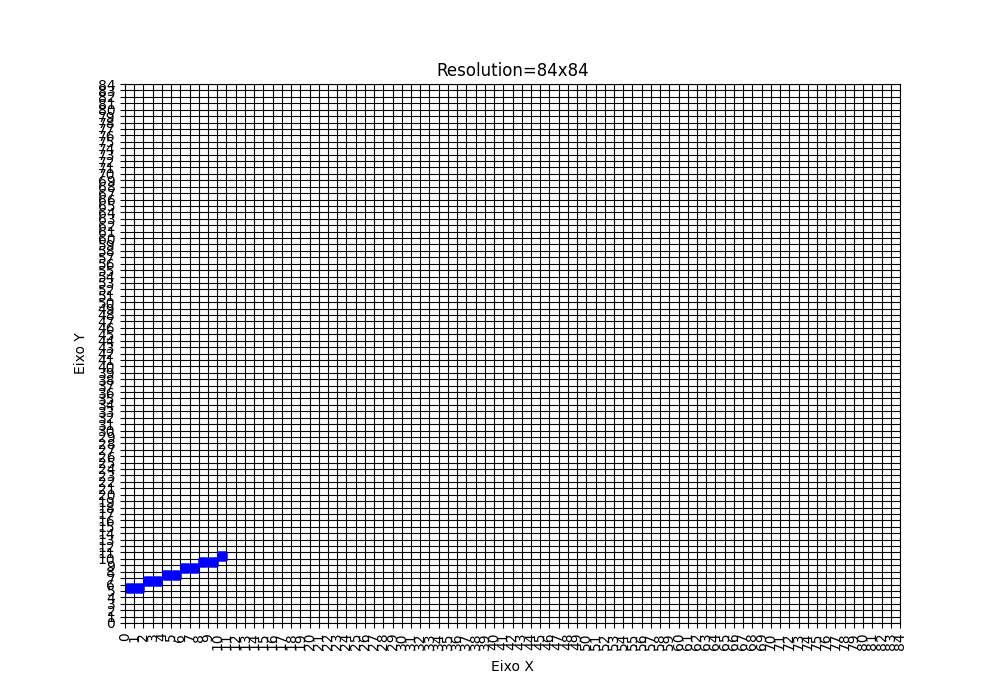
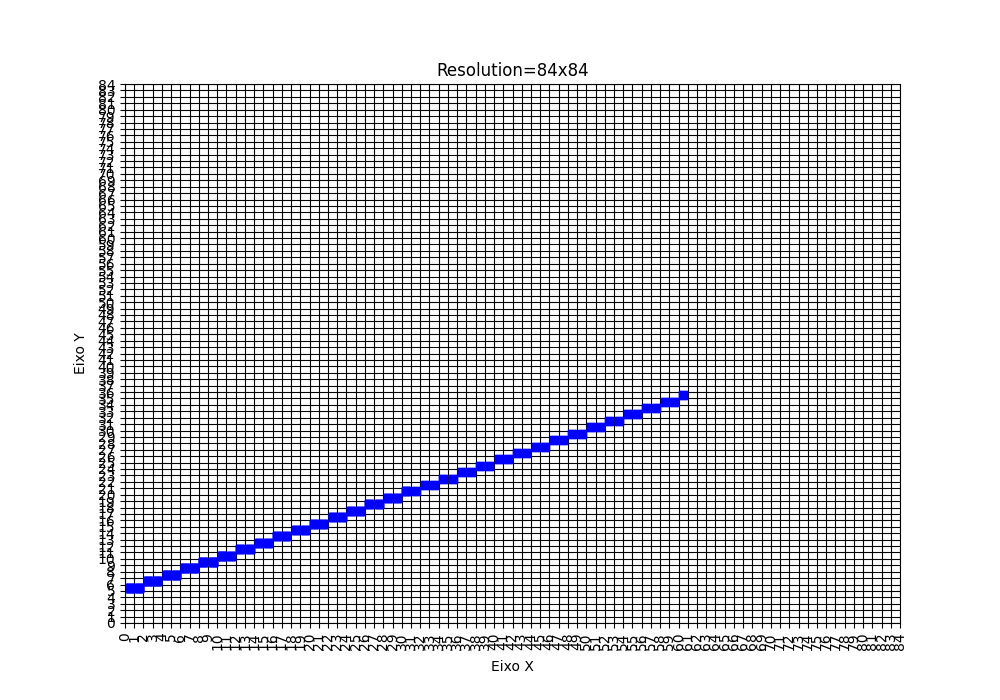
Fixing Algorithm

diff --git a/src/utils/rasterizacao.py b/src/utils/rasterizacao.py
@@ -43,13 +43,40 @@ class Rasterizacao(QObject):
 		self.pointsOnX.append(xm + 0.5)
 		self.pointsOnY.append(ym + 0.5)
 
+	def getYByX(self, originalPoints, coeficientResolution):
+		X1 = originalPoints[0][0]
+		Y1 = originalPoints[0][1]
+		X2 = originalPoints[1][0]
+		Y2 = originalPoints[1][1]
+		if(X2 - X1 != 0):
+			deltaX = (X2 - X1)
+		else:
+			deltaX = 0
+		
+		if(Y2 - Y1 != 0):
+			deltaY = (Y2 - Y1)
+		else:
+			deltaY = 0
+		
+		if deltaX == 0:
+			M = 0
+		else:
+			M = deltaY/deltaX
+		B = Y1 - M * X1
+
+		newXValue = X2 * coeficientResolution
+		newYValue = M * newXValue + B
+
+		return int(newYValue)
+
 	def doRasterization(self, pointsArray):
 		resizeCoeficientsArray = [1, 3, 6]
 		figure = plt.figure(figsize=(10, 7))
 
 		for iteradorAux in range(len(resizeCoeficientsArray)):
+			coeficientResolution = resizeCoeficientsArray[iteradorAux]
 			# MULTIPLICA PELO COEFICIENTE DE RESOLUCAO DE PIXELS
-			self.graphResolution = self.originalResolution * resizeCoeficientsArray[iteradorAux]
+			self.graphResolution = self.originalResolution * coeficientResolution
 
 			for i in range(len(pointsArray)):
 				X1 = pointsArray[i][0]
@@ -68,9 +95,13 @@ class Rasterizacao(QObject):
 						Y = Y2
 						Y2 = Y1
 						Y1 = Y
-						# MULTIPLICA PELO COEFICIENTE DE RESOLUCAO
-						X2 = X2
-						Y2 = Y2
+					# MULTIPLICA PELO COEFICIENTE DE RESOLUCAO
+					Y2 = self.getYByX([
+						[X1, Y1],
+						[X2, Y2]
+					], coeficientResolution)
+					X2 = X2*coeficientResolution
+					# Y2*coeficientResolution
 				except IndexError:
 					X2 = pointsArray[0][0]
 					Y2 = pointsArray[0][1]
@@ -83,26 +114,31 @@ class Rasterizacao(QObject):
 						Y = Y2
 						Y2 = Y1
 						Y1 = Y
-						# MULTIPLICA PELO COEFICIENTE DE RESOLUCAO
-						X2 = X2
-						Y2 = Y2
+					# MULTIPLICA PELO COEFICIENTE DE RESOLUCAO
+					Y2 = self.getYByX([
+						[X1, Y1],
+						[X2, Y2]
+					], coeficientResolution)
+					X2 = X2*coeficientResolution
 				
-				if(X2 - X1 != 0):
-					deltaX= (X2-X1)
+				print(X, Y)
+				print(X1, Y1, X2, Y2)
+
+				if (X2 - X1 != 0):
+					deltaX = (X2 - X1)
 				else:
-					deltaX=0
+					deltaX = 0
 				
-				if(Y2 - Y1 != 0):
-					deltaY= (Y2-Y1)
+				if (Y2 - Y1 != 0):
+					deltaY = (Y2 - Y1)
 				else:
-					deltaY=0
+					deltaY = 0
 				
-				
-				if deltaX==0:
-					M=0
+				if deltaX == 0:
+					M = 0
 				else:
 					M = deltaY/deltaX
-				B= Y-M*X
+				B = Y - M * X
 				
 				self.pointsOnX = []
 				self.pointsOnY = []
